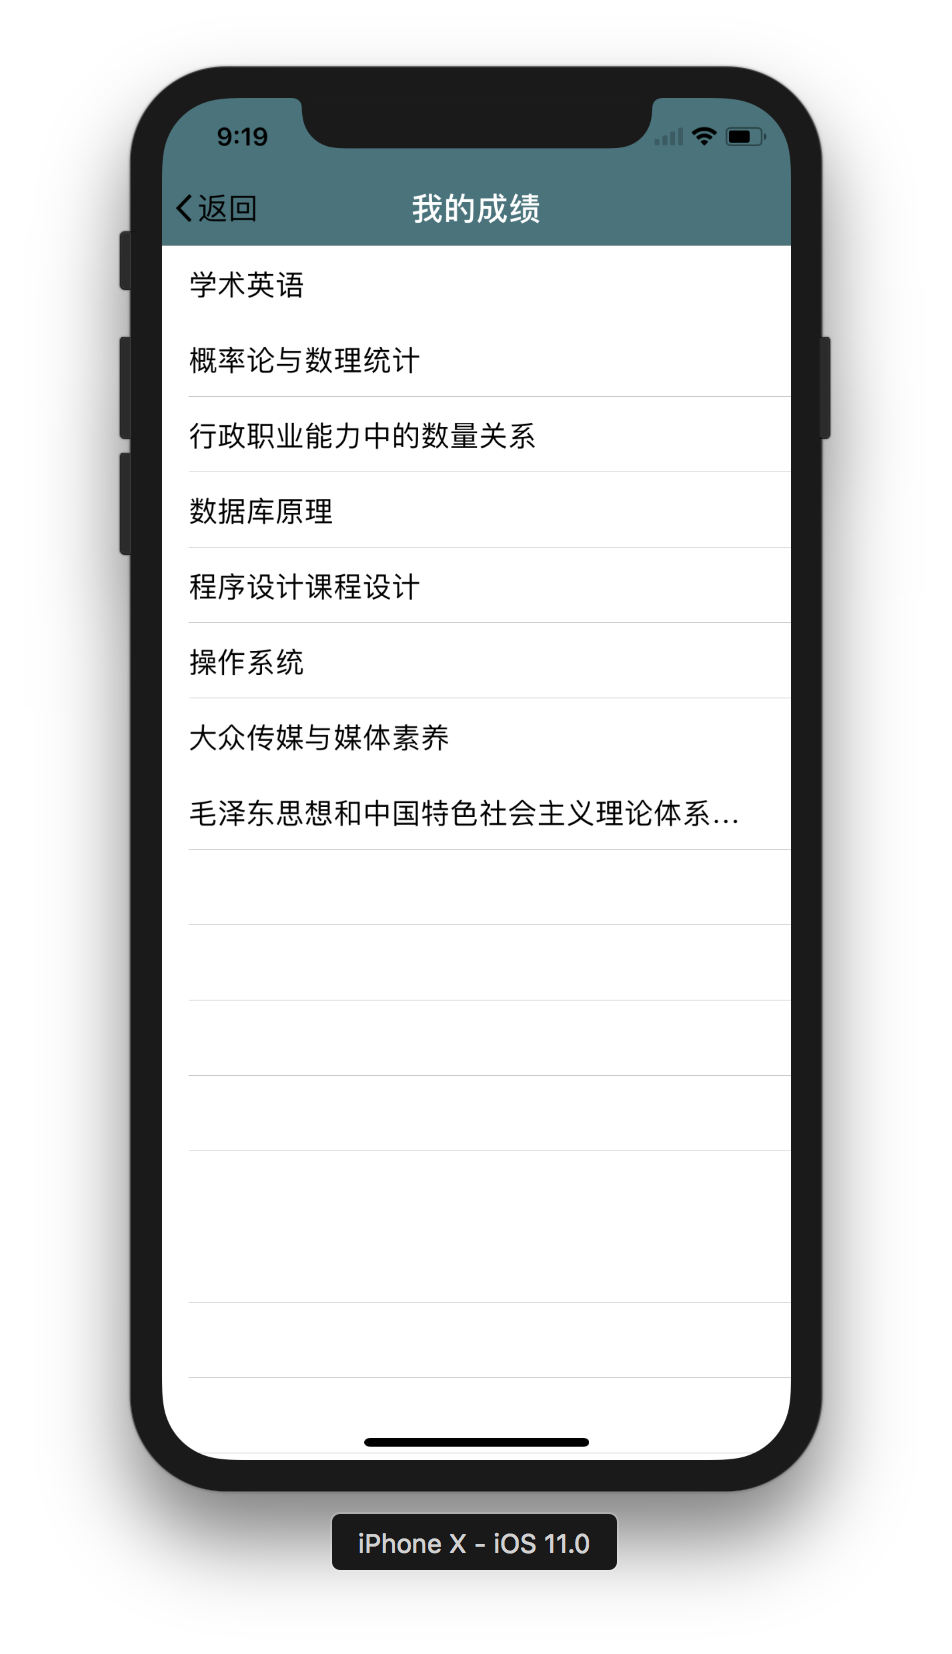
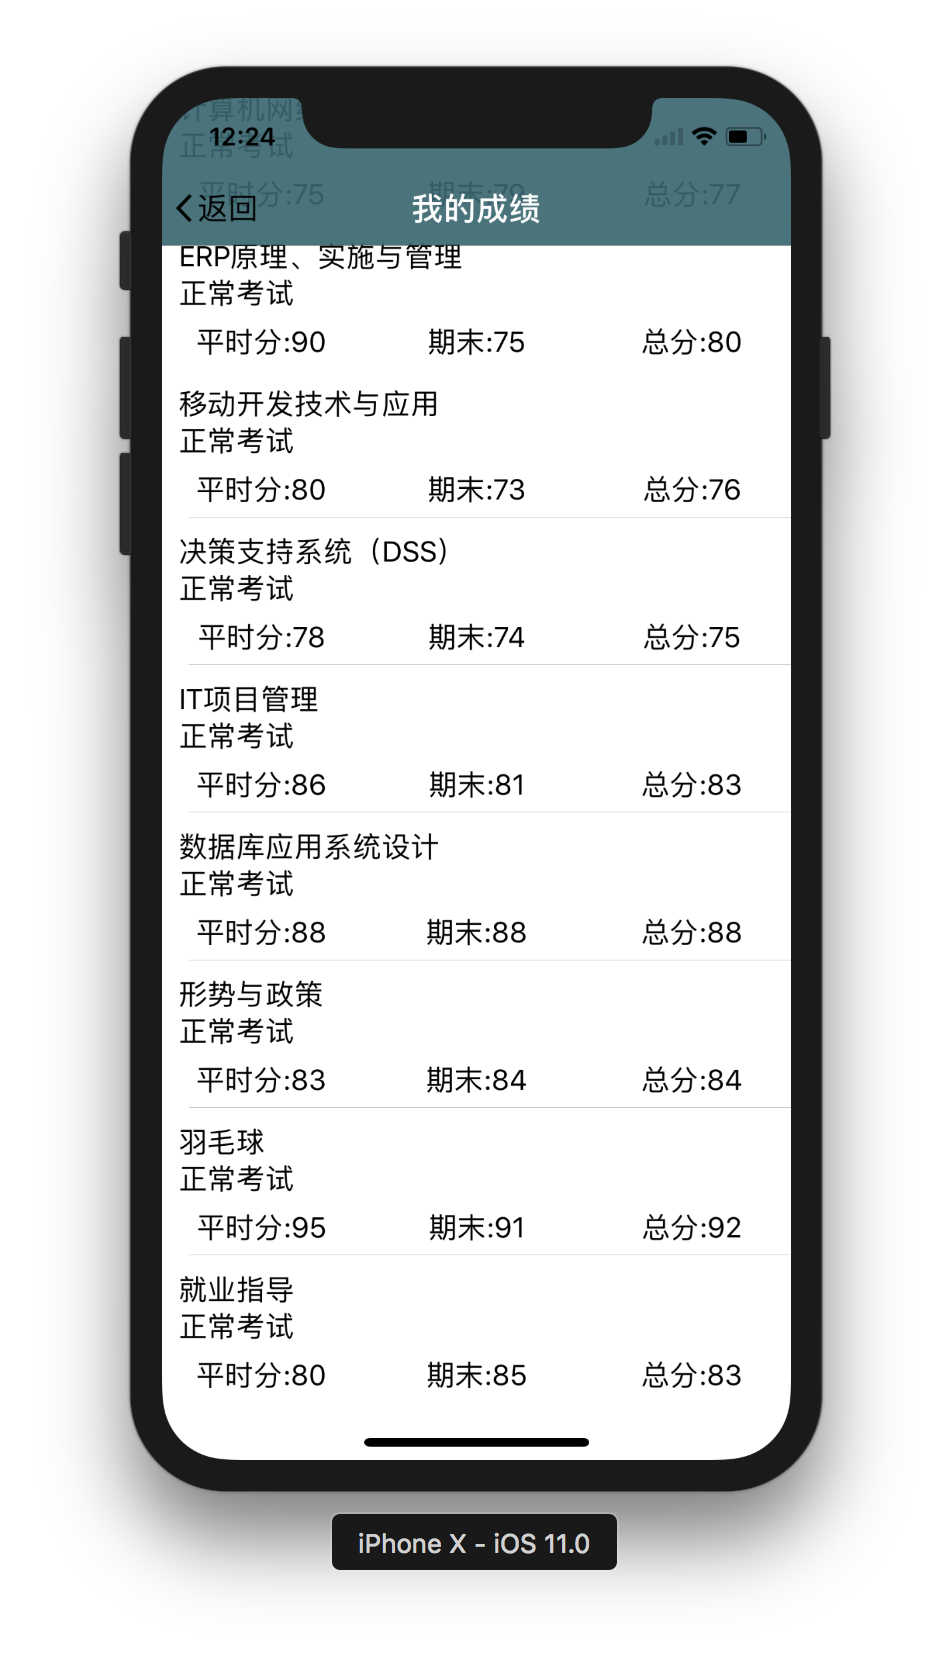
1.3.1

diff --git a/KWGdufe/Classes/Functions/View/KWGradeCell.m b/KWGdufe/Classes/Functions/View/KWGradeCell.m
@@ -7,14 +7,134 @@
 //
 
 #import "KWGradeCell.h"
+#import "KWGradeModel.h"
+#import <Masonry/Masonry.h>
+
+@interface KWGradeCell()
+@property (nonatomic,strong) UILabel *name;
+@property (nonatomic,strong) UILabel *examType;
+@property (nonatomic,strong) UILabel *dailyScore;
+@property (nonatomic,strong) UILabel *paperScore;
+@property (nonatomic,strong) UILabel *score;
+
+@end
 
 @implementation KWGradeCell
 
 - (instancetype)initWithStyle:(UITableViewCellStyle)style reuseIdentifier:(NSString *)reuseIdentifier {
     if (self = [super initWithStyle:style reuseIdentifier:reuseIdentifier]) {
+        UIView *view1 = [[UIView alloc]init];
+//        view1.backgroundColor = [UIColor blueColor];
+        [self addSubview:view1];
+        
+        [view1 mas_makeConstraints:^(MASConstraintMaker *make) {
+            make.top.equalTo(self.mas_top).with.offset(10);
+            make.left.equalTo(self.mas_left);
+            make.right.equalTo(self.mas_right);
+            make.height.equalTo(@(22));
+        }];
+        
+        UIView *view2 = [[UIView alloc]init];
+//        view2.backgroundColor = [UIColor redColor];
+        [self addSubview:view2];
+
+        [view2 mas_makeConstraints:^(MASConstraintMaker *make) {
+            make.top.equalTo(view1.mas_bottom);
+            make.left.equalTo(self.mas_left).with.offset(10);
+            make.right.equalTo(self.mas_right).with.offset(-self.bounds.size.width/2);
+            make.height.equalTo(@(22));
+        }];
+
+        UIView *view3 = [[UIView alloc]init];
+//        view3.backgroundColor = [UIColor blueColor];
+        [self addSubview:view3];
+
+        [view3 mas_makeConstraints:^(MASConstraintMaker *make) {
+            make.top.equalTo(view2.mas_bottom);
+            make.left.equalTo(self.mas_left);
+            make.right.equalTo(self.mas_right).with.offset(-(20 + 2 * (KWSCreenW-20)/3));
+//            make.width.equalTo(@((self.bounds.size.width)/3));
+            make.bottom.equalTo(self.mas_bottom);
+        }];
+        
+//        NSLog(@"self.frame.size.width = %f",KWSCreenW);
+
+        UIView *view4 = [[UIView alloc]init];
+//        view4.backgroundColor = [UIColor redColor];
+        [self addSubview:view4];
+
+        [view4 mas_makeConstraints:^(MASConstraintMaker *make) {
+            make.top.equalTo(view2.mas_bottom);
+            make.left.equalTo(view3.mas_right).with.offset(10);
+            make.right.equalTo(self.mas_right).with.offset(- (10 + (KWSCreenW-20)/3));
+            make.bottom.equalTo(self.mas_bottom);
+        }];
+//
+        UIView *view5 = [[UIView alloc]init];
+//        view5.backgroundColor = [UIColor blueColor];
+        [self addSubview:view5];
+
+        [view5 mas_makeConstraints:^(MASConstraintMaker *make) {
+            make.top.equalTo(view2.mas_bottom);
+            make.left.equalTo(view4.mas_right).with.offset(10);
+            make.right.equalTo(self.mas_right);
+            make.bottom.equalTo(self.mas_bottom);
+        }];
+        
+        _name = [[UILabel alloc]init];
+        _name.text = @"我是帅哥";
+        [view1 addSubview:_name];
+        [_name mas_makeConstraints:^(MASConstraintMaker *make) {
+            make.left.equalTo(view1.mas_left).with.offset(10);
+            make.top.equalTo(view1.mas_top);
+//            make.height.equalTo(view1.mas_height);
+        }];
+        
+        _examType = [[UILabel alloc]init];
+        _examType.text = @"我是帅哥,你是吗？";
+        [view2 addSubview:_examType];
+        [_examType mas_makeConstraints:^(MASConstraintMaker *make) {
+            make.left.equalTo(view2.mas_left);
+            make.top.equalTo(view2.mas_top);
+//            make.height.equalTo(view2.mas_height);
+        }];
+        
+        _dailyScore = [[UILabel alloc]init];
+        _dailyScore.text = @"平时：90";
+        [view3 addSubview:_dailyScore];
+        [_dailyScore mas_makeConstraints:^(MASConstraintMaker *make) {
+            make.centerX.mas_equalTo(view3.mas_centerX);
+            make.centerY.mas_equalTo(view3.mas_centerY);
+        }];
+        
+        _paperScore = [[UILabel alloc]init];
+        _paperScore.text = @"期末：90";
+        [view4 addSubview:_paperScore];
+        [_paperScore mas_makeConstraints:^(MASConstraintMaker *make) {
+            make.centerX.mas_equalTo(view4.mas_centerX);
+            make.centerY.mas_equalTo(view4.mas_centerY);
+        }];
+        
+        _score = [[UILabel alloc]init];
+        _score.text = @"总分：90";
+        [view5 addSubview:_score];
+        [_score mas_makeConstraints:^(MASConstraintMaker *make) {
+            make.centerX.mas_equalTo(view5.mas_centerX);
+            make.centerY.mas_equalTo(view5.mas_centerY);
+        }];
         
     }
     return self;
+}
+
+- (void)setModel:(KWGradeModel *)model {
+    _model = model;
+//    _name.text = KWGradeModel
+    _name.text = _model.name;
+    _examType.text = _model.examType;
+    _dailyScore.text = [NSString stringWithFormat:@"平时分:%ld",(long)_model.dailyScore];
+    _paperScore.text = [NSString stringWithFormat:@"期末:%ld",(long)_model.paperScore];
+    _score.text = [NSString stringWithFormat:@"总分:%ld",(long)_model.score];
 }
 
 @end

diff --git a/KWGdufe/Classes/Functions/Control/KWGradeView.m b/KWGdufe/Classes/Functions/Control/KWGradeView.m
@@ -14,6 +14,7 @@
 #import <SVProgressHUD/SVProgressHUD.h>
 #import "Utils.h"
 #import "KeychainWrapper.h"
+#import "KWGradeCell.h"
 
 @interface KWGradeView ()
 
@@ -40,6 +41,7 @@
     } else {
         [self loadData];
     }
+    NSLog(@"self.frame.size.width2 = %f",KWSCreenW);
 }
 
 - (void)didReceiveMemoryWarning {
@@ -75,8 +77,10 @@
         //字典转模型
         NSArray *gradeModel = [KWGradeModel mj_objectArrayWithKeyValuesArray:gradeDict];
         NSMutableArray *gradeDictTimes = [[NSMutableArray alloc]init];
+        
+        //获取大三下学期成绩
         for (KWGradeModel *gradeDictTime in gradeModel) {
-            if ([gradeDictTime.time isEqualToString:@"2015-2016-2"]) {
+            if ([gradeDictTime.time isEqualToString:@"2016-2017-2"]) {
                 [gradeDictTimes addObject:gradeDictTime];
             }
         }
@@ -94,14 +98,18 @@
 }
 
 - (UITableViewCell *)tableView:(UITableView *)tableView cellForRowAtIndexPath:(NSIndexPath *)indexPath {
-    UITableViewCell *cell = [tableView dequeueReusableCellWithIdentifier:@"Cell"];
-
+    KWGradeCell *cell = [tableView dequeueReusableCellWithIdentifier:@"Cell"];
     if (!cell) {
-       cell = [[UITableViewCell alloc]initWithStyle:UITableViewCellStyleValue1 reuseIdentifier:@"Cell"];
+       cell = [[KWGradeCell alloc]initWithStyle:UITableViewCellStyleDefault reuseIdentifier:@"Cell"];
     }
     KWGradeModel *model = _gradeModel[indexPath.row];
-    cell.textLabel.text = model.name;
+    cell.model = model;
+    cell.selectionStyle = UITableViewCellSelectionStyleNone;
     return cell;
+}
+
+- (CGFloat)tableView:(UITableView *)tableView heightForRowAtIndexPath:(NSIndexPath *)indexPath {
+    return 88;
 }
 
 @end

diff --git a/KWGdufe/Classes/Mine/Control/KWMineViewController.m b/KWGdufe/Classes/Mine/Control/KWMineViewController.m
@@ -165,6 +165,7 @@
     NSString *account = [wrapper myObjectForKey:(id)kSecAttrAccount];
     //删除课程表缓存
     [Utils removeCache:account andID:@"ClassModel"];
+    [Utils removeCache:account andID:@"GradeModel"];
     
     //删除账号密码
     [wrapper resetKeychainItem];

diff --git a/KWGdufe/Classes/Functions/View/KWGradeCell.h b/KWGdufe/Classes/Functions/View/KWGradeCell.h
@@ -7,7 +7,10 @@
 //
 
 #import <UIKit/UIKit.h>
+@class KWGradeModel;
 
 @interface KWGradeCell : UITableViewCell
+
+@property (nonatomic,strong) KWGradeModel  *model;
 
 @end
